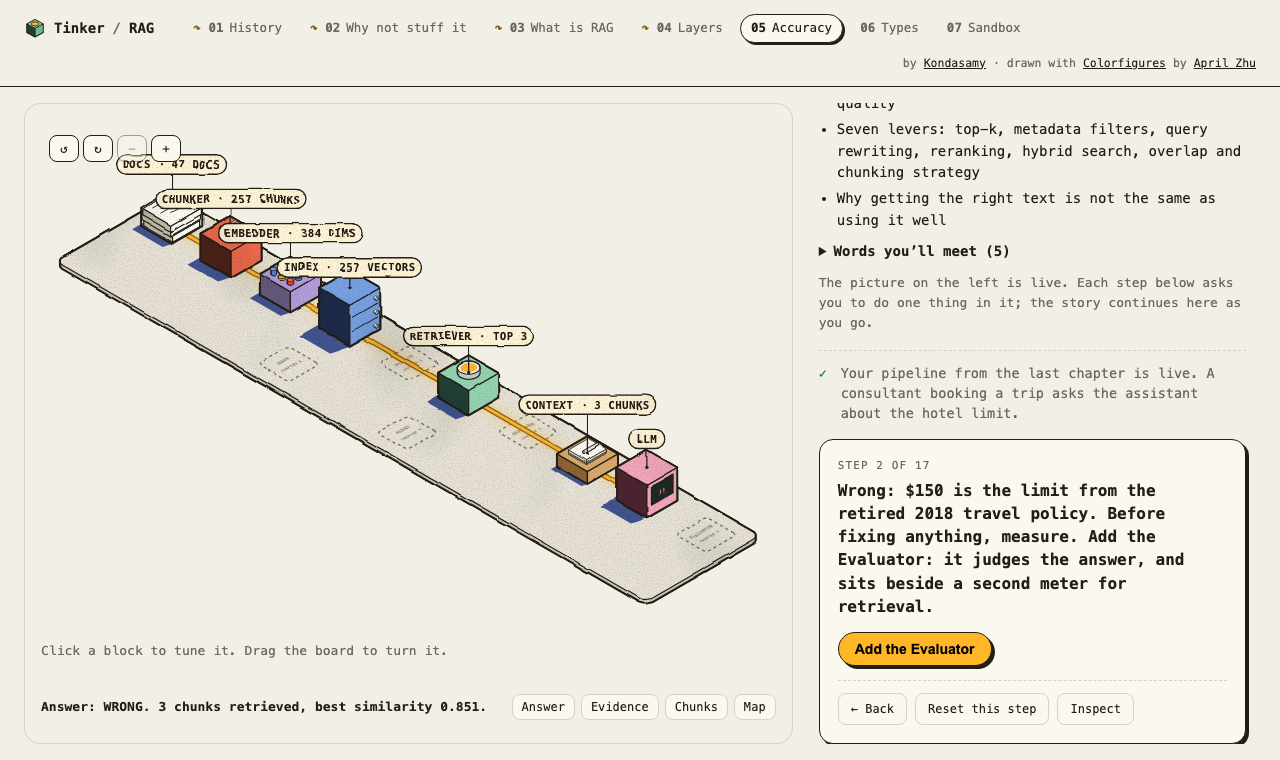
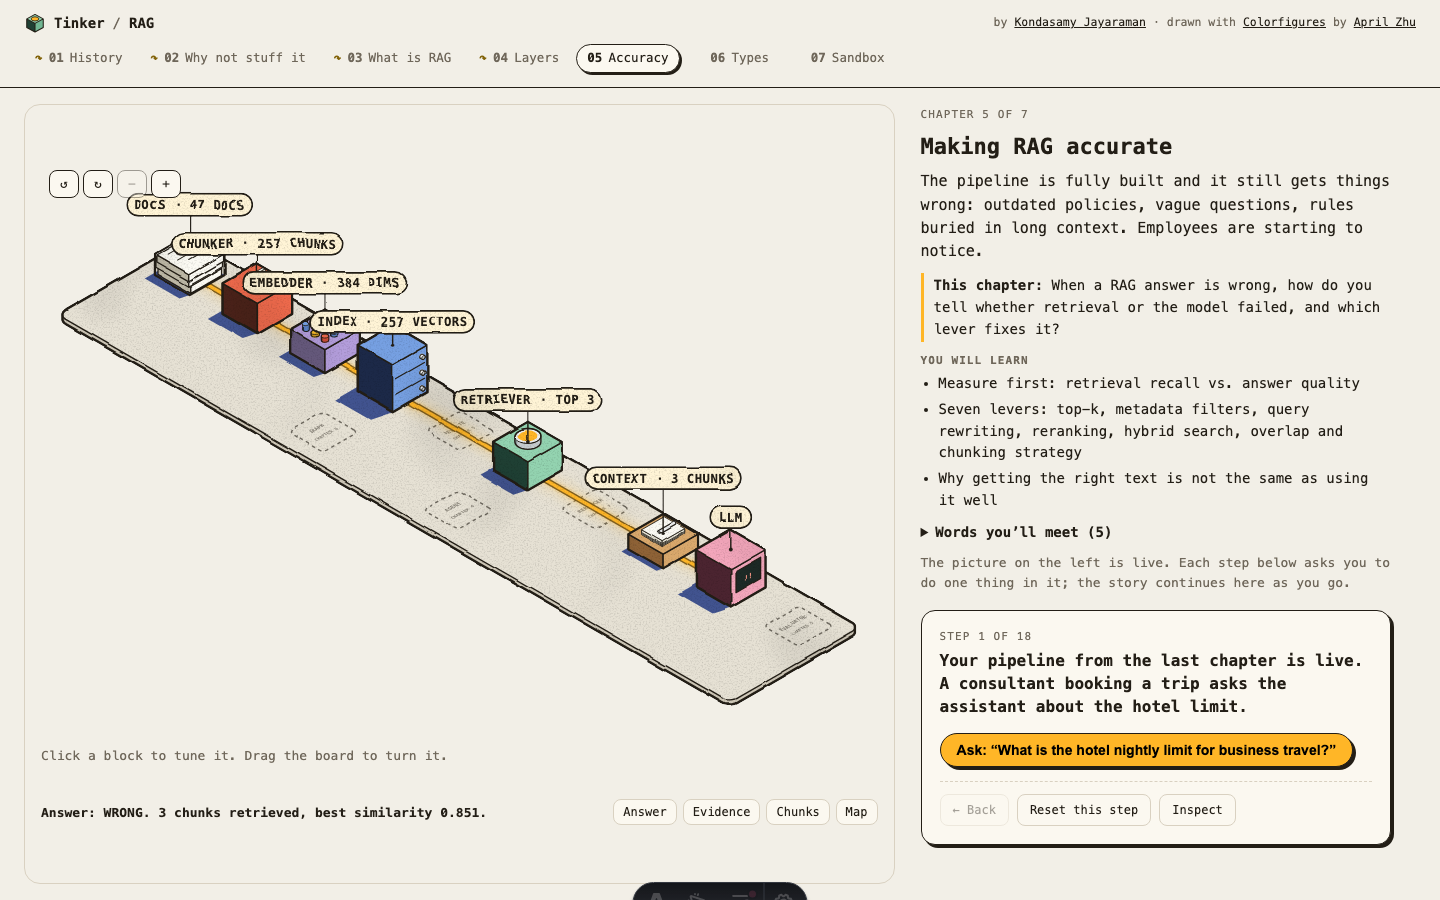
fix: steady chapter bar, chapters open on their intro, a workshop hero
- The chapter bar has two fixed rows and a non-wrapping nav, so it is the
  same height on every chapter (progress marks used to wrap it and push
  the page down on later chapters). Chapter pages cross-fade, chapter 5's
  tabs no longer appear mid-chapter, and Picture/Messages fade in place.
- A chapter played before opens on its intro: restoring the saved run no
  longer scrolls past it. The intro offers "Continue at step N".
- The home hero is one workshop with a plot per module from the registry:
  RAG's pipeline, tool calling's back office with an envelope riding its
  belt, and building sites for the planned modules.
- README: new home, tool calling and phone images, and the pictures.

diff --git a/src/components/scenes/heroScene.ts b/src/components/scenes/heroScene.ts
@@ -1,0 +1,64 @@
+// The home hero: Tinker as one workshop, a plot per module on a single board. RAG's pipeline (docs → retriever → model,
+// wired and lit), tool calling's back office (an envelope riding a belt), and a roped-off building plot for each planned
+// module (a crate and traffic cones: open for someone to build). Plot names come from the registry.
+import type { SceneCtx, Board } from '../../lib/iso/IsoStage';
+import { BH, ACC, renderers, blockShadow, boxCorners, esc } from '../../lib/iso/blocks';
+import { INK, PALS, CERAMIC, WOOD, pd, on, PZ, rrUV, byDepth, box, rod, line, fill, castShadow, toneI, tag } from '../../lib/iso/core.js';
+import { officeScene } from './officeScene';
+import { SEQ_MSGS } from './toolSequence';
+import { MODULES } from '../../lib/modules';
+import type { Msg } from '../../lib/iso/flat';
+
+// the back office at the back; RAG along the front-left edge and the building sites along the front-right one, so
+// nothing tall stands in front of a plot
+export const HERO_BOARD: Board = [0, 0, 340, 330];
+const RAG_Y = 294, RAG_X = [44, 112, 180];
+const PLOT_X = 306, PLOT_Y = [184, 246, 306];
+
+/** a plot's floor: a tinted mat with a dashed edge */
+const mat = (x0: number, y0: number, x1: number, y1: number, col: string) => {
+  const q = on(PZ(BH + .15), rrUV(x0, y0, x1, y1, 6));
+  return fill(pd(q), col, 'fill-opacity=".45"') + `<path d="${pd(q)}" fill="none" stroke="${INK}" stroke-width=".8" stroke-dasharray="4 4"/>`;
+};
+const cone = (x: number, y: number) => rod([x, y, BH], [x, y, BH + 11], 3.6, PALS.tomato, toneI, 1, .7)
+  + rod([x, y, BH + 4.5], [x, y, BH + 6.5], 2.8, CERAMIC, toneI, .6, 2.3);
+const crate = (x: number, y: number) => box(x - 9, y - 9, BH, x + 9, y + 9, BH + 15, WOOD, toneI, 1)
+  + line([[x + 9.05, y - 9, BH], [x + 9.05, y + 9, BH + 15]], .7) + line([[x - 9, y + 9.05, BH], [x + 9, y + 9.05, BH + 15]], .7);
+/** a sawhorse barrier across the plot's front: two posts and a striped bar */
+const barrier = (x: number, y: number) => box(x - 1.5, y - 12, BH, x + 1.5, y - 9, BH + 9, CERAMIC, toneI, .8) + box(x - 1.5, y + 9, BH, x + 1.5, y + 12, BH + 9, CERAMIC, toneI, .8)
+  + rod([x, y - 12, BH + 9], [x, y + 12, BH + 9], 1.6, PALS.mustard) + rod([x, y - 4, BH + 9], [x, y + 2, BH + 9], 1.65, INK);
+
+export interface HeroPlot { name: string }
+/** live: the two live modules' plot names; planned: one plot per planned module; ride: the envelope on the belt */
+export const heroScene = ({ live, planned, ride }: { live: [string, string]; planned: HeroPlot[]; ride: Msg[] }) => (ctx: SceneCtx) => {
+  const { top } = ctx, scale = 1.15;
+  let s = mat(18, 270, 206, 318, PALS.mint.l) + mat(100, 0, 290, 256, PALS.cobalt.l)
+    + PLOT_Y.slice(0, planned.length).map(y => mat(278, y - 28, 336, y + 28, PALS.mustard.l)).join('');
+  // RAG: three blocks down the plot, joined by a lit wire
+  s += RAG_X.map((x, i) => blockShadow((['docs', 'retriever', 'llm'] as const)[i], x, RAG_Y, top)).join('');
+  const d = pd([[RAG_X[0], RAG_Y, BH + .3], [RAG_X[2], RAG_Y, BH + .3]], false);
+  s += `<path d="${d}" fill="none" stroke="${INK}" stroke-width="4.2" stroke-linecap="round"/><path d="${d}" fill="none" stroke="${ACC}" stroke-width="2.2" stroke-linecap="round"/>`;
+  s += byDepth((['docs', 'retriever', 'llm'] as const).map((t, i) => ({ at: [RAG_X[i], RAG_Y, 0], svg: renderers[t]({ x: RAG_X[i], y: RAG_Y, lit: true, state: 'ok' }) })));
+  // tool calling: the back office, its stations unnamed (the plot's pill names the module)
+  s += officeScene({ msgs: ride, tools: 2, schema: true, names: false })(ctx);
+  // planned modules: building plots
+  const plots = planned.map((_, i) => {
+    const y = PLOT_Y[i];
+    return castShadow(boxCorners(PLOT_X - 17, y - 9, BH, PLOT_X + 1, y + 9, BH + 15), BH, top)
+      + byDepth([
+        { at: [PLOT_X - 8, y, 0], svg: crate(PLOT_X - 8, y) },
+        { at: [PLOT_X + 12, y - 15, 0], svg: cone(PLOT_X + 12, y - 15) },
+        { at: [PLOT_X + 12, y + 15, 0], svg: cone(PLOT_X + 12, y + 15) },
+        { at: [PLOT_X + 24, y, 0], svg: barrier(PLOT_X + 24, y) },
+      ]);
+  }).join('');
+  s += plots;
+  const pill = (p: number[], text: string, onn: boolean, dy = -20) => `<g class="block-tag" aria-hidden="true" pointer-events="none">${tag(p, 0, dy, esc(text.toUpperCase()), onn, scale)}</g>`;
+  return s + pill([RAG_X[1], RAG_Y, BH + 34], live[0], true, -18) + pill([142, 134, BH + 34], live[1], true, -22)
+    + planned.map((m, i) => pill([PLOT_X - 8, PLOT_Y[i], BH + 15], `Soon: ${m.name}`, false, -14)).join('');
+};
+
+const LIVE = MODULES.filter(m => m.status === 'live'), PLANNED = MODULES.filter(m => m.status === 'planned');
+/** the home page's picture (and its share image), from the registry: the model's call riding to the host */
+export const HOME_HERO = heroScene({ live: [`Module 1 · ${LIVE[0].title}`, `Module 2 · ${LIVE[1].title}`], planned: PLANNED.map(m => ({ name: m.title })), ride: SEQ_MSGS.slice(0, 3) });
+export const HOME_HERO_LABEL = `Tinker as one workshop with a plot per module: ${LIVE.map(m => m.title).join(' and ')}, live, and building sites for ${PLANNED.map(m => m.title).join(', ')}.`;

diff --git a/src/components/story/StepRunner.tsx b/src/components/story/StepRunner.tsx
@@ -31,7 +31,7 @@ export default function StepRunner<S>({ module = 'rag', chapter, steps, initial,
   const [focusDrawer, setFocusDrawer] = useState(0);
   const [sheet, setSheet] = useState(false);   // opened from the picture: a bottom sheet on phones
   useEffect(() => setSheet(false), [run.index]);   // a step's own drawer flows below its card again
-  const loaded = useRef(false);
+  const loaded = useRef(false), restoring = useRef(false);
   const step = steps[run.index];
   const apply = (state: S) => dispatch({ type: 'apply', state });
   const sync = (state: S) => dispatch({ type: 'sync', state });
@@ -45,7 +45,11 @@ export default function StepRunner<S>({ module = 'rag', chapter, steps, initial,
   useEffect(() => {
     // a run saved on other steps restarts the chapter (KTD4); what is done stays done
     const saved = loadChapter<Run<S>>(module, chapter);
-    if (isRun(steps, saved, ch?.legacySteps)) dispatch({ type: 'restore', run: { ...saved, ids: steps.map(st => st.id) } });
+    if (isRun(steps, saved, ch?.legacySteps)) {
+      // the restore moves the run off step 1; that move must not scroll the story past the intro
+      if (saved.index !== 0 || saved.done) restoring.current = true;
+      dispatch({ type: 'restore', run: { ...saved, ids: steps.map(st => st.id) } });
+    }
     loaded.current = true;
   }, [module, chapter, steps, ch]);
 
@@ -64,9 +68,12 @@ export default function StepRunner<S>({ module = 'rag', chapter, steps, initial,
   // the story column scrolls on its own: bring the step being worked on into view whenever it changes
   const cardRef = useRef<HTMLElement>(null);
   const firstScroll = useRef(true);
+  const toCard = () => cardRef.current?.scrollIntoView({ block: 'nearest', behavior: matchMedia('(prefers-reduced-motion: reduce)').matches ? 'auto' : 'smooth' });
   useEffect(() => {
-    if (firstScroll.current) { firstScroll.current = false; if (run.index === 0) return; }   // a fresh chapter opens on its intro
-    cardRef.current?.scrollIntoView({ block: 'nearest', behavior: matchMedia('(prefers-reduced-motion: reduce)').matches ? 'auto' : 'smooth' });
+    // every visit opens on the chapter's intro, a resumed run too (the intro links on to the step)
+    if (firstScroll.current) { firstScroll.current = false; return; }
+    if (restoring.current) { restoring.current = false; return; }
+    toCard();
   }, [run.index, run.done]);
 
   const panel = run.drawer ? panels[run.drawer] : undefined;
@@ -96,6 +103,9 @@ export default function StepRunner<S>({ module = 'rag', chapter, steps, initial,
               </details>
             )}
             <p className="how">The picture on the left is live. Each step below asks you to do one thing in it; the story continues here as you go.</p>
+            {(run.index > 0 || run.done) && (
+              <button type="button" className="chip resume" onClick={toCard}>{run.done ? 'You finished this chapter: see the end ↓' : `Continue at step ${run.index + 1} ↓`}</button>
+            )}
           </header>
         )}
         {past.length > 0 && (

diff --git a/src/components/scenes/officeScene.ts b/src/components/scenes/officeScene.ts
@@ -165,6 +165,8 @@ export interface OfficeOpts {
   orders?: string;
   /** results from the order system carry a planted note */
   note?: boolean;
+  /** station and check name pills, and the stock in the corner (default on); the home hero leaves them out */
+  names?: boolean;
   scale?: number;
 }
 
@@ -198,15 +200,16 @@ export const officeScene = (o: OfficeOpts) => ({ top }: SceneCtx) => {
     + castShadow(boxCorners(AT.host[0] - 20, AT.host[1] - 20, BH, AT.host[0] + 20, AT.host[1] + 20, BH + 34), BH, top)
     + castShadow(boxCorners(AT.orders[0] - 16, AT.orders[1] - 16, BH, AT.orders[0] + 16, AT.orders[1] + 16, BH + 44), BH, top)
     + castShadow(boxCorners(AT.emp[0] - 18, AT.emp[1] - 12, BH, AT.emp[0] + 18, AT.emp[1] + 12, BH + 20), BH, top)
-    + castShadow(boxCorners(227, 205, BH, 265, 223, BH + 28), BH, top) + castShadow(boxCorners(256, 238, BH, 268, 250, BH + 20), BH, top);
+    + (o.names === false ? '' : castShadow(boxCorners(227, 205, BH, 265, 223, BH + 28), BH, top) + castShadow(boxCorners(256, 238, BH, 268, 250, BH + 20), BH, top));
   s += (['model', 'emp', 'orders'] as Station[]).map(k => belt(k, k === 'orders' && !tools)).join('');
-  const parts: Part[] = [...stock(), desk(st.busy === 'emp'), sorter(st.busy === 'host', st.calls, cap), model(st.screen, tools), cabinet(st.open)];
+  const parts: Part[] = [...(o.names === false ? [] : stock()), desk(st.busy === 'emp'), sorter(st.busy === 'host', st.calls, cap), model(st.screen, tools), cabinet(st.open)];
   const lastBad = st.last?.stamp === 'INVALID';
   if (schema) parts.push(arch('model', .3, st.last?.from === 'model' && st.last.to === 'host' ? (lastBad ? 'bad' : 'ok') : null));
   if (owner) parts.push(arch('orders', .3, st.last?.from === 'orders' ? (st.last.stamp === 'REFUSED' ? 'bad' : 'ok') : null));
   if (gate) parts.push(barrier('orders', .62, st.up, st.waiting));
   const pills: string[] = [];
   const sign = (st2: Station, t: number, text: string) => {
+    if (o.names === false) return;
     const [x, y] = along(st2, t);
     pills.push(`<g class="check-tag" aria-hidden="true" pointer-events="none">${tag([x, y, BH], 0, 16, text, false, scale)}</g>`);
   };
@@ -235,6 +238,7 @@ export const officeScene = (o: OfficeOpts) => ({ top }: SceneCtx) => {
   });
   s += byDepth(parts);
   const name = (k: Station, text: string) => `<g class="block-tag" aria-hidden="true" pointer-events="none">${tag([AT[k][0], AT[k][1], BH + HT[k]], 0, -14 - (44 - HT[k]) / (inkK() * scale) * .6, esc(text), st.busy === k, scale)}</g>`;
+  if (o.names === false) return s + pills.join('');
   s += name('emp', 'EMPLOYEE') + name('host', host.toUpperCase() + (cap ? ` · ${st.calls}/${cap} CALLS` : ''))
     + name('model', narrow ? 'MODEL' : `MODEL${tools ? ` · ${tools} TOOL${tools === 1 ? '' : 'S'}` : ' · NO TOOLS'}`)
     + name('orders', `ORDER SYSTEM${tools ? '' : ' · NOT LINKED'}${o.orders ? ` · ${o.orders}` : ''}`);

diff --git a/tests/e2e/tool-calling.spec.ts b/tests/e2e/tool-calling.spec.ts
@@ -313,7 +313,7 @@ test('chapter 5: integration counts follow the numbers; connecting shows server/
   await step(page, 4);
   await expect(count('with')).toHaveText(String(3 + 4));
   await expect(page.locator('.stage svg[role="img"]')).toHaveAttribute('aria-label', /one MCP plug on each, 7 integrations/);
-  await expect(page.locator('.stage .tc-tabs')).toHaveCount(0);   // one figure, chosen by the step
+  await expect(page.locator('.stage .tc-tabs').getByRole('button', { name: /^Messages/ })).toBeDisabled();   // the tabs stay put; nothing to list yet
 
   await btn(page, /^Connect the Larkspur orders server/);
   await step(page, 5);
@@ -420,4 +420,30 @@ test('chapter 6: the approval barrier stays down while it waits for a person, an
   await expect(pic(page)).toHaveAttribute('aria-label', /approval barrier, down, waiting for a person/);
   await card(page).getByRole('button', { name: 'Approve' }).click();
   await expect(pic(page)).toHaveAttribute('aria-label', /approval barrier, raised/);
+});
+
+test('the chapter bar and the stage tabs sit in the same place on every chapter', async ({ page }) => {
+  await page.setViewportSize({ width: 1440, height: 900 });
+  const spots = new Set<string>();
+  for (const id of ['01-answers-arent-actions', '04-many-steps', '05-mcp', '06-when-tools-go-wrong', '07-workbench']) {
+    await toolWalker(page, 'mouse').open(id);
+    const bar = (await page.locator('header.top').boundingBox())!, tabs = (await page.locator('.tc-tabs').boundingBox())!;
+    spots.add(`${Math.round(bar.height)}/${Math.round(tabs.y)}`);
+  }
+  expect([...spots]).toHaveLength(1);
+});
+
+test('a chapter played before opens on its intro, with a link on to the saved step', async ({ page }) => {
+  await page.setViewportSize({ width: 1440, height: 900 });
+  const w = toolWalker(page, 'mouse');
+  await w.open('04-many-steps');
+  await card(page).getByRole('radio', { name: /Both calls in one turn/ }).click();
+  await playAll(page);
+  await page.reload();
+  await expect(card(page)).toContainText('Step 3 of');
+  await page.waitForTimeout(300);   // past the first render, when a resumed run used to scroll to its step
+  expect(await page.locator('.side').evaluate(el => el.scrollTop)).toBe(0);
+  await expect(page.getByRole('heading', { level: 1 })).toBeInViewport();
+  await page.getByRole('button', { name: /^Continue at step 3/ }).click();
+  await expect(card(page)).toBeInViewport();
 });

diff --git a/src/content/tool-calling/05-mcp.tsx b/src/content/tool-calling/05-mcp.tsx
@@ -145,12 +145,11 @@ function Stage({ state, sync, inspect }: StageProps<S>) {
   const ms = msgs(state);
   return (
     <div className="tc-stage">
-      {state.phase === 'connect' && (
-        <div className="tc-tabs" role="group" aria-label="Show in the picture">
-          <button type="button" className="chip" aria-pressed={state.view === 'scene'} onClick={() => sync({ ...state, view: 'scene' })}>Picture</button>
-          <button type="button" className="chip" aria-pressed={state.view === 'seq'} onClick={() => sync({ ...state, view: 'seq' })}>Messages ({ms.length})</button>
-        </div>
-      )}
+      {/* the tabs are always there, so the picture never jumps when they arrive; no messages until a server connects */}
+      <div className="tc-tabs" role="group" aria-label="Show in the picture">
+        <button type="button" className="chip" aria-pressed={state.view === 'scene' || state.phase === 'count'} onClick={() => sync({ ...state, view: 'scene' })}>Picture</button>
+        <button type="button" className="chip" disabled={state.phase === 'count'} aria-pressed={state.view === 'seq' && state.phase === 'connect'} onClick={() => sync({ ...state, view: 'seq' })}>Messages ({state.phase === 'count' ? 0 : ms.length})</button>
+      </div>
       <div className="tc-frame">
         {state.view === 'scene' || state.phase === 'count' ? picture : <FlatStage lanes={LANES} msgs={ms} onPick={openMessage(inspect)} />}
       </div>

diff --git a/src/content/tool-calling/tools.css b/src/content/tool-calling/tools.css
@@ -36,6 +36,10 @@
 .tc-tabs { display: flex; gap: 6px; }
 .tc-frame { width: 100%; min-height: 0; display: flex; }
 .tc-frame > * { flex: 1; min-width: 0; min-height: 0; }
+/* switching Picture and Messages: the new view fades in where the old one was (the frame keeps its size) */
+@media (prefers-reduced-motion: no-preference) { .tc-frame > * { animation: tc-fade .28s ease-out; } }
+@keyframes tc-fade { from { opacity: 0; } }
+.tc-tabs .chip:disabled { opacity: .45; cursor: default; box-shadow: none; }
 .tc-frame .flat { display: flex; flex-direction: column; }
 .tc-frame svg, .tc-frame .flat svg { width: 100%; height: 100%; max-height: none; min-height: 0; flex: 1; }
 @media (min-width: 861px) {
@@ -62,3 +66,5 @@
 .tc-caption { margin: 0; display: flex; flex-wrap: wrap; align-items: baseline; gap: 4px 8px; font-size: 13.5px; min-height: 2.6em; }
 .tc-caption .lbl { flex-basis: 100%; font-size: 11px; letter-spacing: .08em; text-transform: uppercase; color: var(--muted); }
 .tc-caption .txt { font-family: ui-monospace, Menlo, monospace; font-weight: 700; overflow-wrap: anywhere; }
+/* chapter 6: the picture shares the stage with the ledger under it */
+@media (min-width: 861px) { .tc-stage .tc-stage { height: auto; flex: 1; min-height: 0; } }

diff --git a/README.md b/README.md
@@ -4,7 +4,7 @@
 
 Each module is a short story you play through: the picture on the left is live, the story on the right asks you to do one thing at a time in it, and you watch what changes. Build the thing, break it, fix it.
 
-![Tinker home](docs/images/home.png)
+![Tinker home: one workshop, a plot per module. RAG and tool calling are live; the planned modules are building sites](docs/images/home.png)
 
 ---
 
@@ -50,6 +50,10 @@ How AI assistants go from answering to acting. The Larkspur story continues: sta
 | 6 | When tools go wrong | Put an approval gate in front of a refund, narrow its permission, and stop an instruction planted in a tool result |
 | 7 | Workbench | Set up servers, the gate and the limits for four requests, each needing its own setup |
 
+The chapters play out in Larkspur's **back office**, an isometric diorama: the employee's desk, the host app's sorting desk, the model and the order system's filing cabinet, joined by conveyor belts. Each message rides its belt as an envelope. A schema arch holds back a malformed call, an approval barrier waits for a person, a cabinet drawer slides out when an order is read, and a planted instruction pokes out of an envelope. The same run is one tab away as a message-by-message sequence.
+
+![A tool calling chapter: a refund waits at the approval barrier, the ledger below shows nothing has moved](docs/images/tool-calling.png)
+
 ---
 
 ## How it's built
@@ -57,7 +61,10 @@ How AI assistants go from answering to acting. The Larkspur story continues: sta
 - **Static site:** Astro with React islands. No backend, no API key, no live model, so it runs on any static host, and a chapter keeps working offline once its data has loaded.
 - **Real retrieval, precomputed answers (RAG):** the corpus is embedded at build time (`pnpm build:index`, all-MiniLM-L6-v2 and a cross-encoder reranker); the browser runs the real similarity, BM25, reranking, graph-walk and agent maths over those vectors. Model answers are pre-recorded for each kind of evidence that can reach the model, so every knob changes the outcome honestly.
 - **Recorded turns, live tools (Tool calling):** the model's turns are pre-recorded per scenario (`data/tool-calling/turns/`). The host loop, a JSON Schema subset validator, the approval gate, the tools running on fixture data and an MCP-shaped JSON-RPC server all run in the browser (`src/lib/tools/`). A unit test checks every reachable control setting has a recorded turn. MCP facts come from `data/tool-calling/facts.json`, each with its source.
-- **Pictures:** hand-inked isometric figures drawn by the Colorfigures engine (see Credits), extended to orbit, zoom and turn the view, and flat sequence figures (lanes and message cards) in the same ink for flows over time (`src/lib/iso/flat.ts`). Names sit in label pills so they stay readable.
+- **Pictures:** hand-inked isometric figures drawn by the Colorfigures engine (see Credits), extended to orbit, zoom and turn the view. Each module leads with a scene you can picture rather than a flow chart: RAG's pipeline on a workbench, tool calling's back office (`src/components/scenes/officeScene.ts`), and the home page's workshop with a plot per module (`heroScene.ts`). Flat sequence figures (lanes and message cards, `src/lib/iso/flat.ts`) in the same ink show the exact messages, a tab away. Names sit in label pills so they stay readable.
+- **Works on a phone:** below 861px the picture stacks above the story, pills grow, and the sequence shows one message at a time.
+
+<p align="center"><img src="docs/images/phone.png" width="300" alt="A tool calling chapter on a phone: the back office above, the INVALID call held at the schema check"></p>
 - **Story:** every chapter is a list of steps run by one step runner (`src/components/story/`): each step has narration, the one control it needs, a check that advances it, hints after a few tries and, for puzzles, “Show me”. Progress is saved in the browser, per module.
 - **Making it stick:** chapters ask for a prediction before a reveal, quizzes explain why each option is right or wrong and offer “I’m not sure”, each module's recap asks recall questions from the chapters you finished, and a reader who returns 20 hours or more after finishing a chapter is offered a short warm-up. Nothing leaves the browser.
 - **Tests:** unit tests for the engine and story logic (Vitest), and end-to-end tests that play every chapter, check accessibility with axe, keyboard-only play, reduced motion, phone size and offline use (Playwright).
@@ -196,7 +203,7 @@ No monitoring is needed, because there is no backend.
 
 ## Contributing
 
-New modules and fixes arrive as pull requests to this repository. Start with [CONTRIBUTING.md](CONTRIBUTING.md) (setup, checks, the PR flow, credit) and [docs/writing-a-module.md](docs/writing-a-module.md) (the house style for a module). `pnpm new-module <id> "<Title>"` scaffolds a module, and `pnpm test` lists what it still needs.
+The empty plots on the home page are open. New modules and fixes arrive as pull requests to this repository. Start with [CONTRIBUTING.md](CONTRIBUTING.md) (setup, checks, the PR flow, credit) and [docs/writing-a-module.md](docs/writing-a-module.md) (the house style for a module). `pnpm new-module <id> "<Title>"` scaffolds a module, and `pnpm test` lists what it still needs.
 
 ---
 

diff --git a/AGENTS.md b/AGENTS.md
@@ -52,6 +52,8 @@ Marketing pages share `src/styles/page.css` (buttons, kickers, chips, top bar, c
 ## Chapter page layout
 
 - **Wide screens (≥ 861px): an app frame.** The picture holds still on the left; the story column on the right scrolls on its own. Phones stack the picture above the story.
+- **The chapter bar has two fixed rows** (brand and credit, then the chapter nav, which scrolls sideways instead of wrapping), so it is the same height on every chapter. Progress marks keep a fixed slot. Moving between chapters cross-fades (`@view-transition`, off with reduced motion).
+- **Every visit opens on the chapter's intro**, a resumed or finished run too; the intro then offers "Continue at step N". The story column scrolls to the step only when the step changes.
 - **The story column opens with context**, before step 1: chapter number, title, the story so far, the chapter's question, "You will learn", "Words you'll meet". This lives in each chapter's `intro` in `src/content/<module>/module.ts`. Never drop a reader straight into a step.
 - **Finished steps stay visible** as a ticked "story so far" log above the current step card; the current step scrolls into view when it changes.
 - Steps are run by `StepRunner` (`src/components/story/`): narration, the one control the step needs, a predicate that advances it, hints after 3 misses, "Show me" for puzzles, progress in `localStorage`.
@@ -70,6 +72,7 @@ Marketing pages share `src/styles/page.css` (buttons, kickers, chips, top bar, c
 - **3D view (RAG canvas only):** turn buttons, drag-to-orbit, zoom (buttons, pinch) and pan when zoomed. Part turns are fitted inside the whole-turn frame so the page never resizes. Labels and front-mounted parts move to the faces toward the viewer. The chapter 1–2 scenes keep the fixed front view (their glass drawing assumes it).
 - A "See inside" (x-ray glass blocks) mode was built and **rejected**; don't bring it back.
 - **Flat figures** (lanes, message cards, arrows, stamps) live in `src/lib/iso/flat.ts` beside the engine, reusing its ink, palette and wobble; `core.js` stays untouched. `FlatStage` mirrors `IsoStage`. Use them for flows over time; isometric blocks show sequences poorly.
+- **The home hero is the workshop** (`src/components/scenes/heroScene.ts`): one board, a plot per module from the registry. RAG's pipeline and tool calling's back office are live plots; each planned module is a building site (crate, cones, barrier), which invites contributors.
 - **Lead with a scene, not a diagram.** Tool calling's chapters 1–4 and 6 (and its intro hero and home card) open on the **back office** (`src/components/scenes/officeScene.ts`): an isometric diorama of the employee's desk, the host's sorting desk, the model and the order system's filing cabinet, joined by conveyor belts. The message being sent rides its belt as an envelope coloured by kind; checks stand on the belts (schema arch, ownership arch, approval barrier); a drawer slides out when the orders are read; a planted note pokes out of an envelope. It is driven by the same transcript as the sequence, so the two never disagree. Only stamps ride in the drawing; the message's words go in the caption under it (`ToolStage` in `src/content/tool-calling/kit.tsx`).
 - **One figure on a chapter stage at a time**, chosen by the step, inside a fixed frame. Where the reader may pick the view, a tab switch selects it: tool calling's Picture / Messages tabs (ch. 1–4 and 6 keep the tab as view state, outside saved progress; ch. 5 and 7 keep it in the step state).
 - **Untrusted strings render as text only**: React text nodes, or `esc()` in SVG strings. `FlatStage` and `IsoStage` inject SVG markup, so every string in it must be escaped by the kit first. No `set:html` or other `dangerouslySetInnerHTML` for content.
